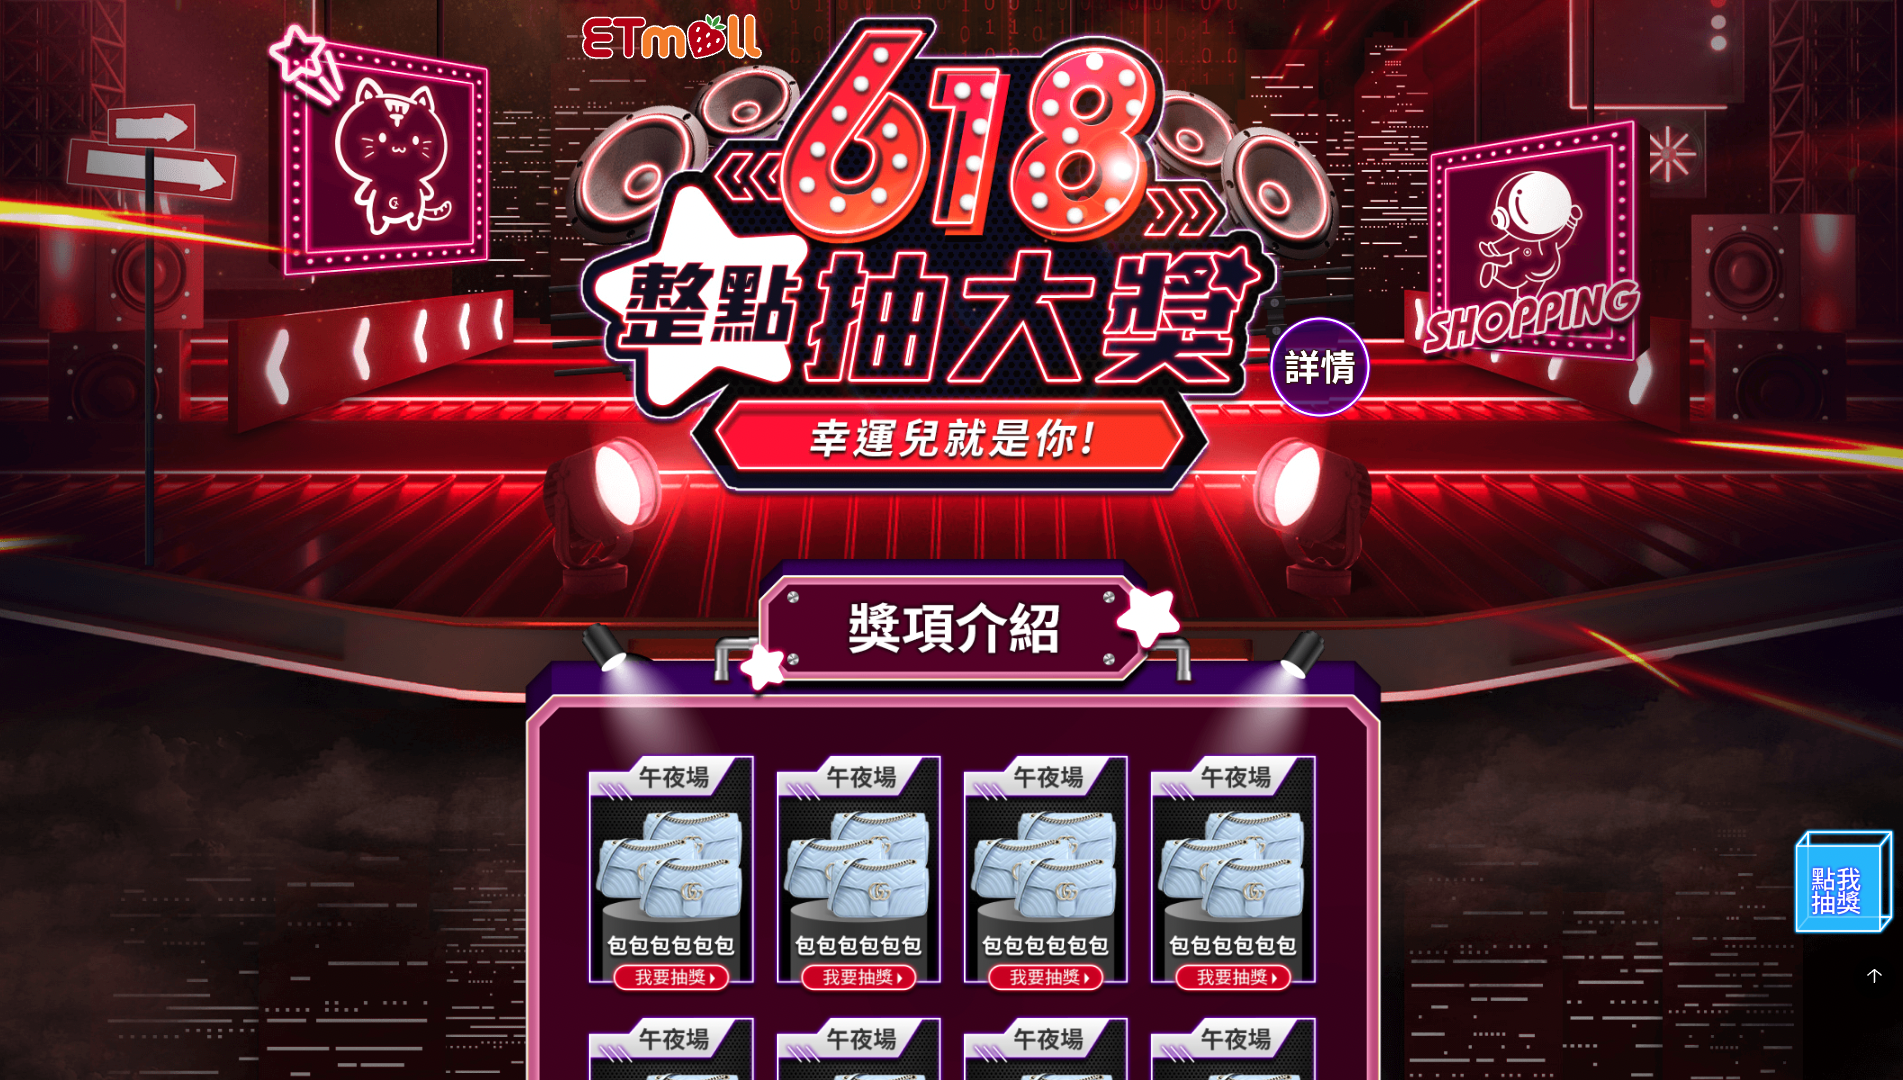
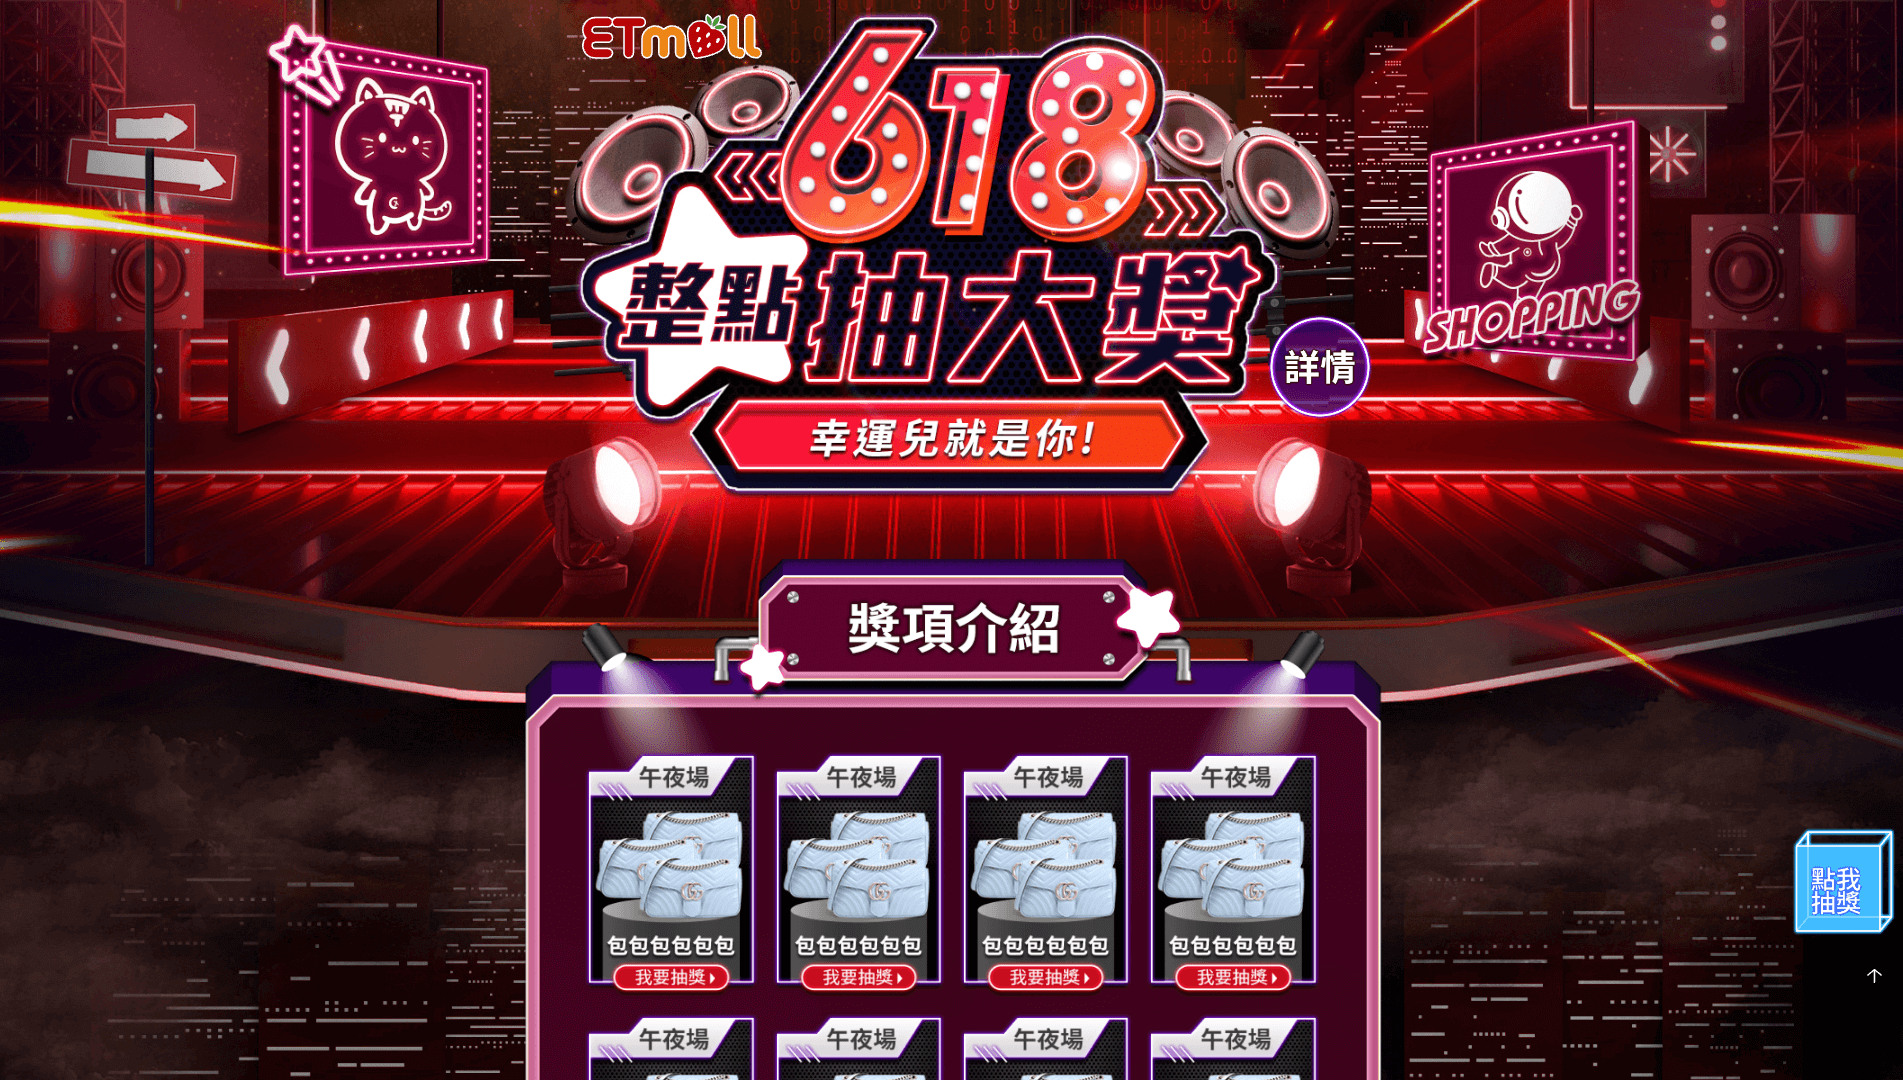
docs: compress posters

diff --git a/index.html b/index.html
@@ -359,7 +359,7 @@
             <a href="#buildGrid">Build grid</a>
           </li>
           <li>
-            <a href="#emarsysEdm">Emarsys EDM</a>
+            <a href="#wixEdm">Wix & Edm</a>
           </li>
         </ul>
       </div>
@@ -581,17 +581,19 @@
           </div>
         </div>
       </section>
-      <section id="emarsysEdm" class="emarsys-edm">
-        <h2>Emarsys EDM</h2>
+      <section id="wixEdm" class="emarsys-edm">
+        <h2>Wix & Edm</h2>
         <div class="emarsys-edm__wrap">
+          <a href="https://www.regalclubspa.com.tw/">
+            <div class="item">
+              <img src="./posters/poster-regal.jpg" alt="" />
+            </div>
+          </a>
           <div class="item">
             <img src="./posters/poster-edm-1.jpg" alt="" />
           </div>
           <div class="item">
             <img src="./posters/poster-edm-2.jpg" alt="" />
-          </div>
-          <div class="item">
-            <img src="./posters/poster-edm-3.jpg" alt="" />
           </div>
         </div>
       </section>
